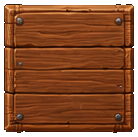
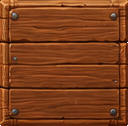
finish maze

diff --git a/src/maze/maze.py b/src/maze/maze.py
@@ -1,5 +1,10 @@
 import pygame
 from mazegenerator import MazeGenerator
+from enum import IntFlag
+
+# TO DO: Supprimer Rect et ajouter les colissions manuellement. 
+# Supprimer rotate et modifier moi meme le png.
+# Supprimer scale et modifier moi meme le png.
 
 
 class Border(IntFlag):
@@ -16,34 +21,114 @@ class MazeError(Exception):
 
 
 class Maze:
-    def __init__(self, grid: list[list[int]]):
-        self._grid = grid
-        self.width = len(grid[0])
-        self.height = len(grid)
+    def __init__(self, width: int, height: int, seed: int, cell_size: int = 55, wall_width: int = 12):
+        self.width = width
+        self.height = height
+        self.seed = seed
+        self.cell_size = cell_size
+        self.wall_width = wall_width
+        
         self.perfect: bool = False
         self.center = (self.width // 2, self.height // 2)
         self.corners = [
-            (0, 0),
-            (self.width - 1, 0),
+            (0, 0), 
+            (self.width - 1, 0), 
             (0, self.height - 1),
-            (self.width - 1, self.height - 1),
+            (self.width - 1, self.height - 1)
         ]
+        
+        self.maze_generator = self.build_maze()
+        self.grid = self.maze_generator.maze
+        
+        self.wallpaper = pygame.image.load('assets/wallpaper/wallpaper_game.png').convert()
+        self.wall = pygame.image.load('assets/wall/wall.png').convert_alpha()
+        self.closed_wall = pygame.image.load('assets/wall/closed.png').convert_alpha()
 
-    def has_wall(self, x: int, y: int, d: Direction) -> bool: ...
+    def build_maze(self) -> MazeGenerator:
+        try:
+            maze = MazeGenerator(
+                size=(self.width, self.height),
+                seed=self.seed,
+                perfect=self.perfect
+            )
+        except Exception as e:
+            raise MazeError(
+                "Une erreur est survenue lors de la création du labyrinthe de "
+                f"{self.width=}, {self.height=}:\n{e}"
+            )
+        return maze
+    
+    def init_walls_rects(self):
+        self.walls_rects.clear()
+        pass
 
-    def is_open(self, x: int, y: int) -> bool: ...  # != 15
+    def draw(self, screen):
+        screen_width, screen_height = screen.get_size()
 
-    def neighbors(self, x: int, y: int) -> list[tuple[int, int]]: ...
-
-
-def build_maze(config: GameConfig) -> Maze:
-    try:
-        gen = MazeGenerator(
-            size=(config.width, config.height), perfect=False, seed=config.seed
+        img_width, img_height = self.wallpaper.get_size()
+        scale = min(screen_width / img_width, screen_height / img_height)
+        new_width = int(img_width * scale)
+        new_height = int(img_height * scale)
+        scaled_wallpaper = pygame.transform.scale(self.wallpaper, (new_width, new_height))
+        
+        screen.blit(
+            scaled_wallpaper,
+            ((screen_width - new_width) // 2, (screen_height - new_height) // 2)
         )
-    except Exception as e:
-        raise MazeError(
-            "An error happened while trying to create a maze of "
-            f"{config.width=}, {config.height=}:\n"
-        ) from e
-    return Maze(gen.maze)
+
+        maze_total_width = self.width * self.cell_size
+        maze_total_height = self.height * self.cell_size
+        
+        offset_x = (screen_width - maze_total_width) // 2
+        offset_y = (screen_height - maze_total_height) // 2
+
+        self.draw_maze_walls(screen, offset_x, offset_y)
+
+    def draw_maze_walls(self, screen, offset_x, offset_y):
+        
+        wall = pygame.transform.scale(
+            self.wall,
+            (self.cell_size + self.wall_width, self.wall_width)
+        )
+        
+        closed_wall = pygame.transform.scale(
+            self.closed_wall,
+            (self.cell_size, self.cell_size)
+        )
+        
+        walls_rects = set()
+        
+        for row in range(self.height):
+            for col in range(self.width):
+                cell_value = self.grid[row][col]
+                y = row * self.cell_size + offset_y
+                x = col * self.cell_size + offset_x
+                
+                if cell_value == 15:
+                    screen.blit(closed_wall, (x, y))
+                    walls_rects.add((x, y, self.cell_size, self.cell_size))
+                    continue
+
+                if cell_value != (Border.NORTH | Border.SOUTH | Border.EAST | Border.WEST):
+                    
+                    if cell_value & Border.NORTH:
+                        walls_rects.add((x, y, self.cell_size + self.wall_width, self.wall_width))
+                        screen.blit(wall, (x, y))
+
+                    if cell_value & Border.SOUTH:
+                        walls_rects.add((x, y + self.cell_size, self.cell_size + self.wall_width, self.wall_width))
+                        screen.blit(wall, (x, y + self.cell_size))
+                        
+                    if cell_value & Border.EAST:
+                        rotated_wall = pygame.transform.rotate(wall, -90)
+                        walls_rects.add((x + self.cell_size, y, self.wall_width, self.cell_size + self.wall_width))
+                        screen.blit(rotated_wall, (x + self.cell_size, y))
+                        
+                    if cell_value & Border.WEST:
+                        rotated_wall = pygame.transform.rotate(wall, 90)
+                        walls_rects.add((x, y, self.wall_width, self.cell_size + self.wall_width))
+                        screen.blit(rotated_wall, (x, y))
+                        
+        self.walls_rects = [pygame.Rect(r) for r in walls_rects]
+                        
+                
